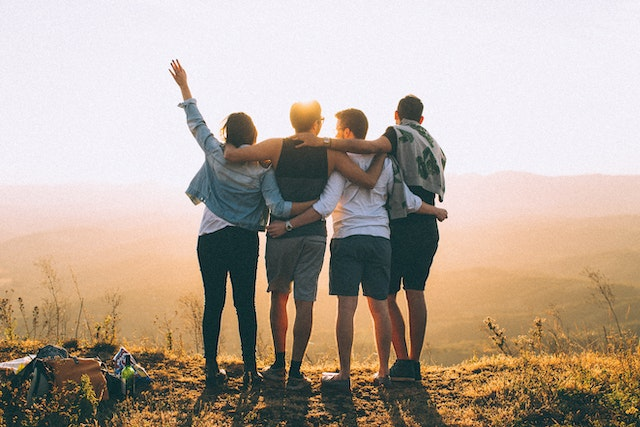
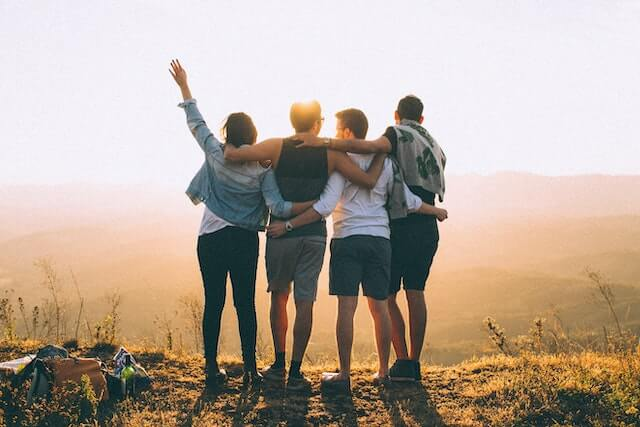
Optimized images by reducing size

diff --git a/src/main/resources/templates/login/signup.html b/src/main/resources/templates/login/signup.html
@@ -58,10 +58,9 @@
             <h1 class="display-3">UpliftUnity</h1>
             <h3 class="mt-4 signup-h3">Empowering communities, one story at a time.</h3>
             <div class="image-div d-flex justify-content-end mt-5">
-                <img class="sign-up-image" src="/images/sign-up-image1.jpg" alt="">
-                <img class="sign-up-image" src="/images/sign-up-image2.jpg" alt="">
-                <img class="sign-up-image" src="/images/sign-up-image3.jpg" alt="">
-
+                <img class="sign-up-image" src="/images/sign-up-image1.jpg" alt="A group of people standing together">
+                <img class="sign-up-image" src="/images/sign-up-image2.jpg" alt="Hands together holding a plant">
+                <img class="sign-up-image" src="/images/sign-up-image3.jpg" alt="Two people holding boxes bringing aid">
             </div>
             <div class="circles d-flex justify-content-center">
                 <div class="circle"></div>
